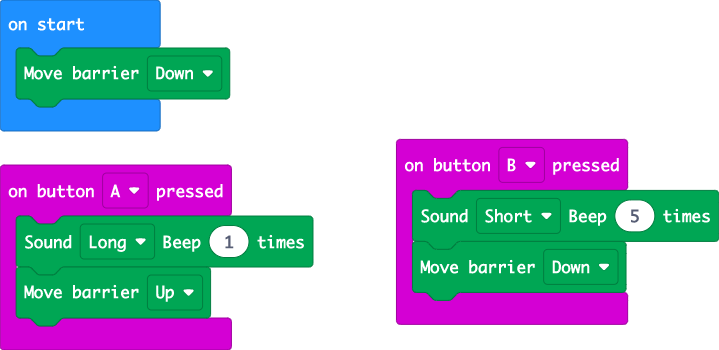
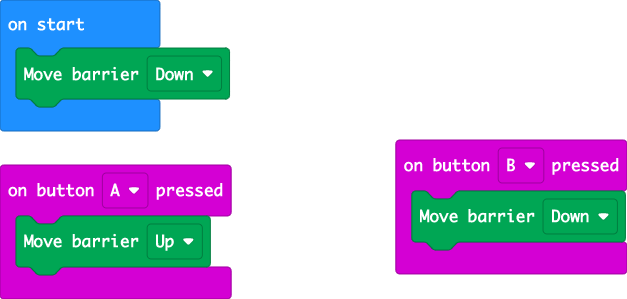
Removed sounds

diff --git a/main.ts b/main.ts
@@ -1,9 +1,7 @@
 input.onButtonPressed(Button.A, function () {
-    Kitronik_ACCESSbit.buzzerControl(Kitronik_ACCESSbit.BuzzerLength.Long, 1)
     Kitronik_ACCESSbit.barrierControl(Kitronik_ACCESSbit.BarrierPosition.Up)
 })
 input.onButtonPressed(Button.B, function () {
-    Kitronik_ACCESSbit.buzzerControl(Kitronik_ACCESSbit.BuzzerLength.Short, 5)
     Kitronik_ACCESSbit.barrierControl(Kitronik_ACCESSbit.BarrierPosition.Down)
 })
 Kitronik_ACCESSbit.barrierControl(Kitronik_ACCESSbit.BarrierPosition.Down)
